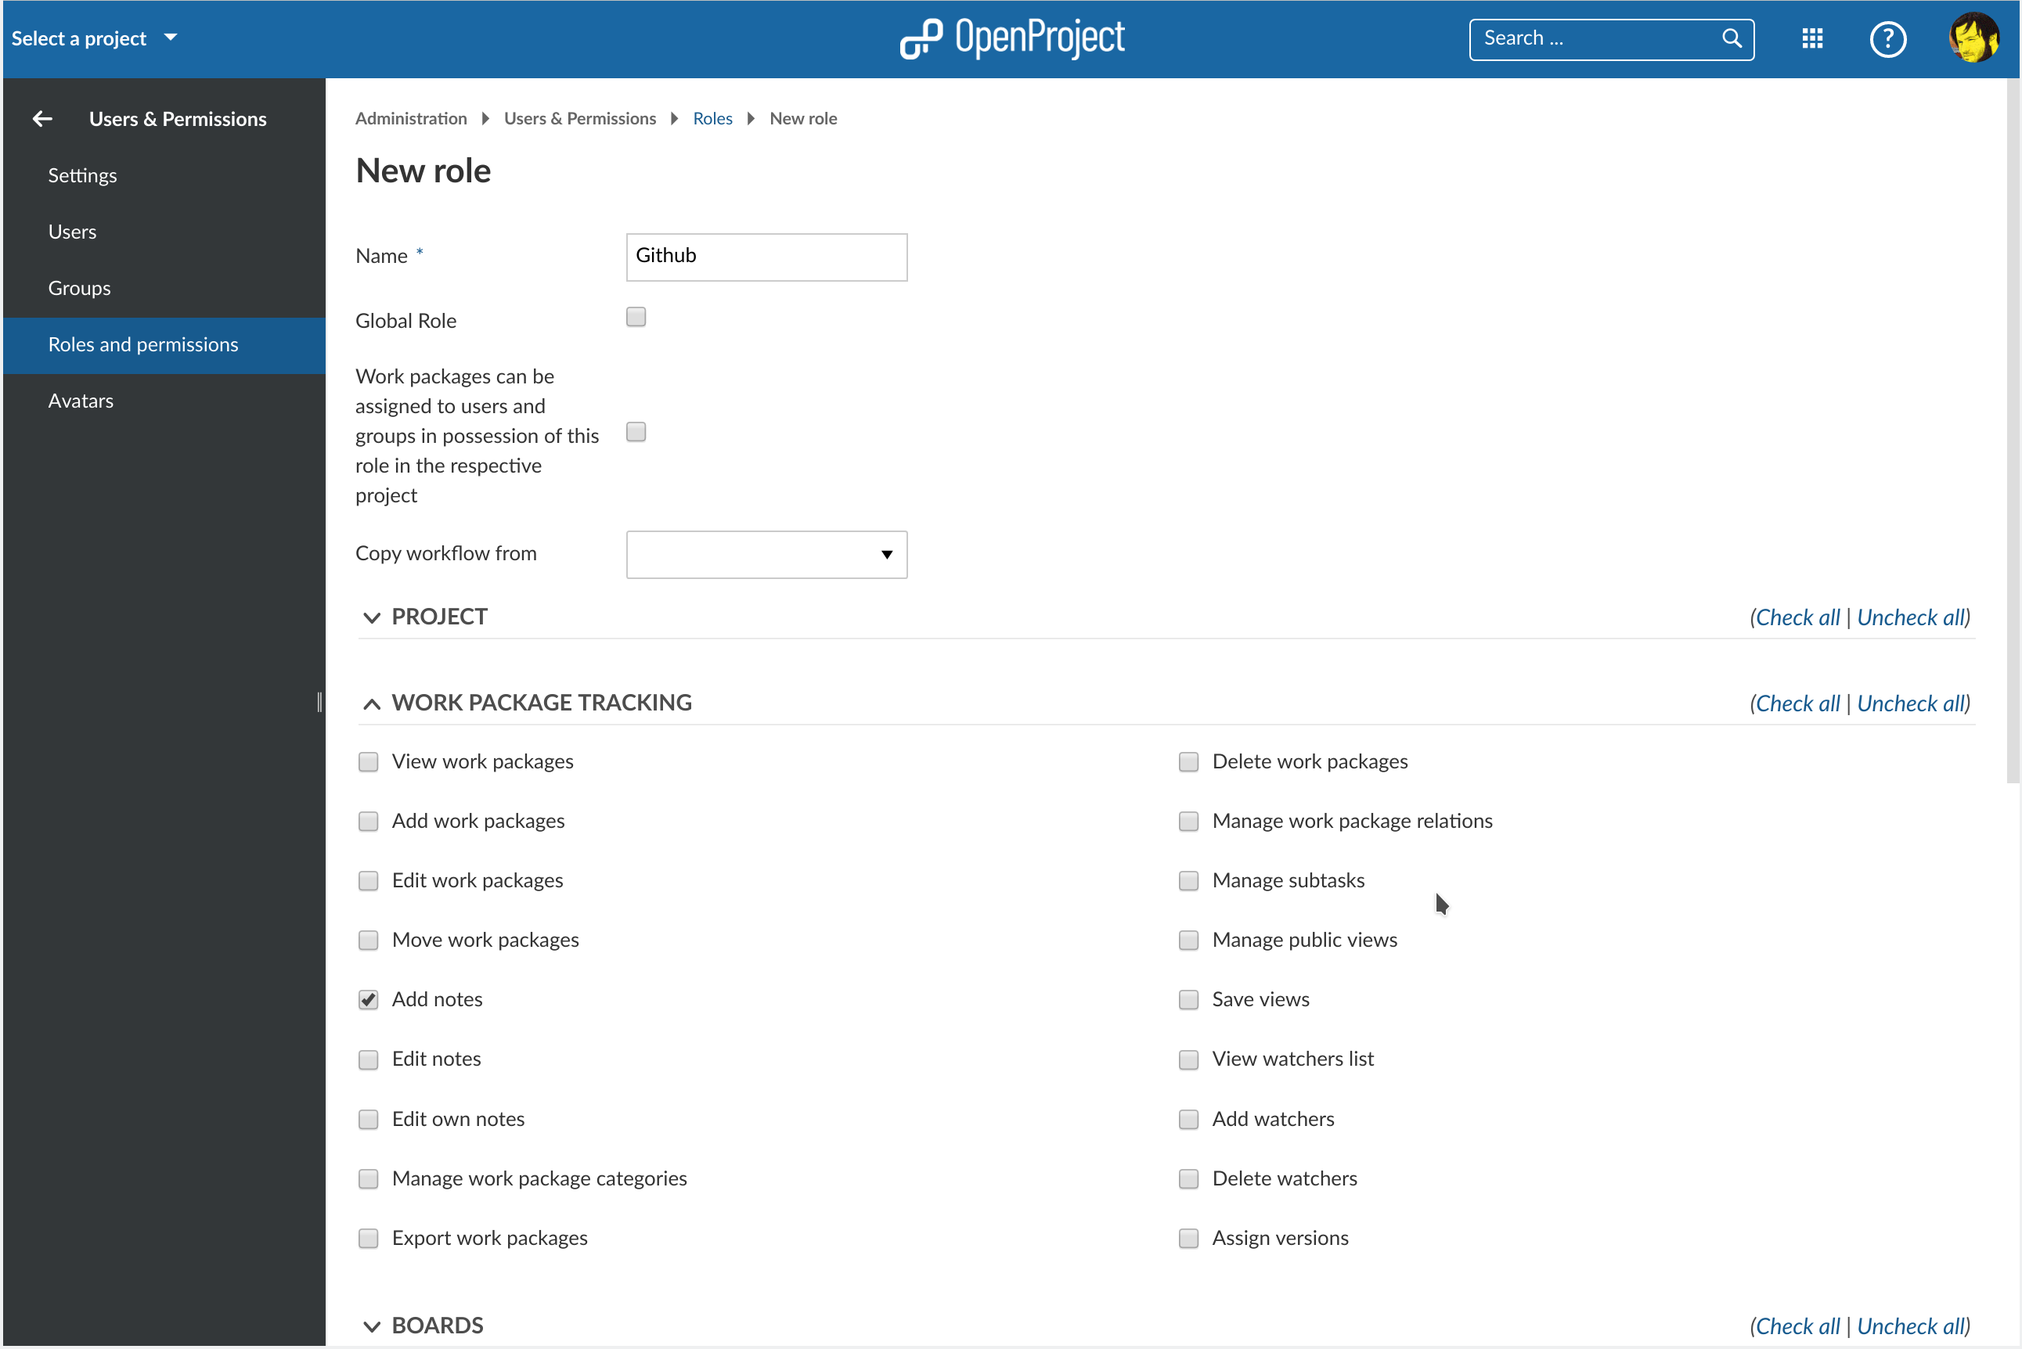
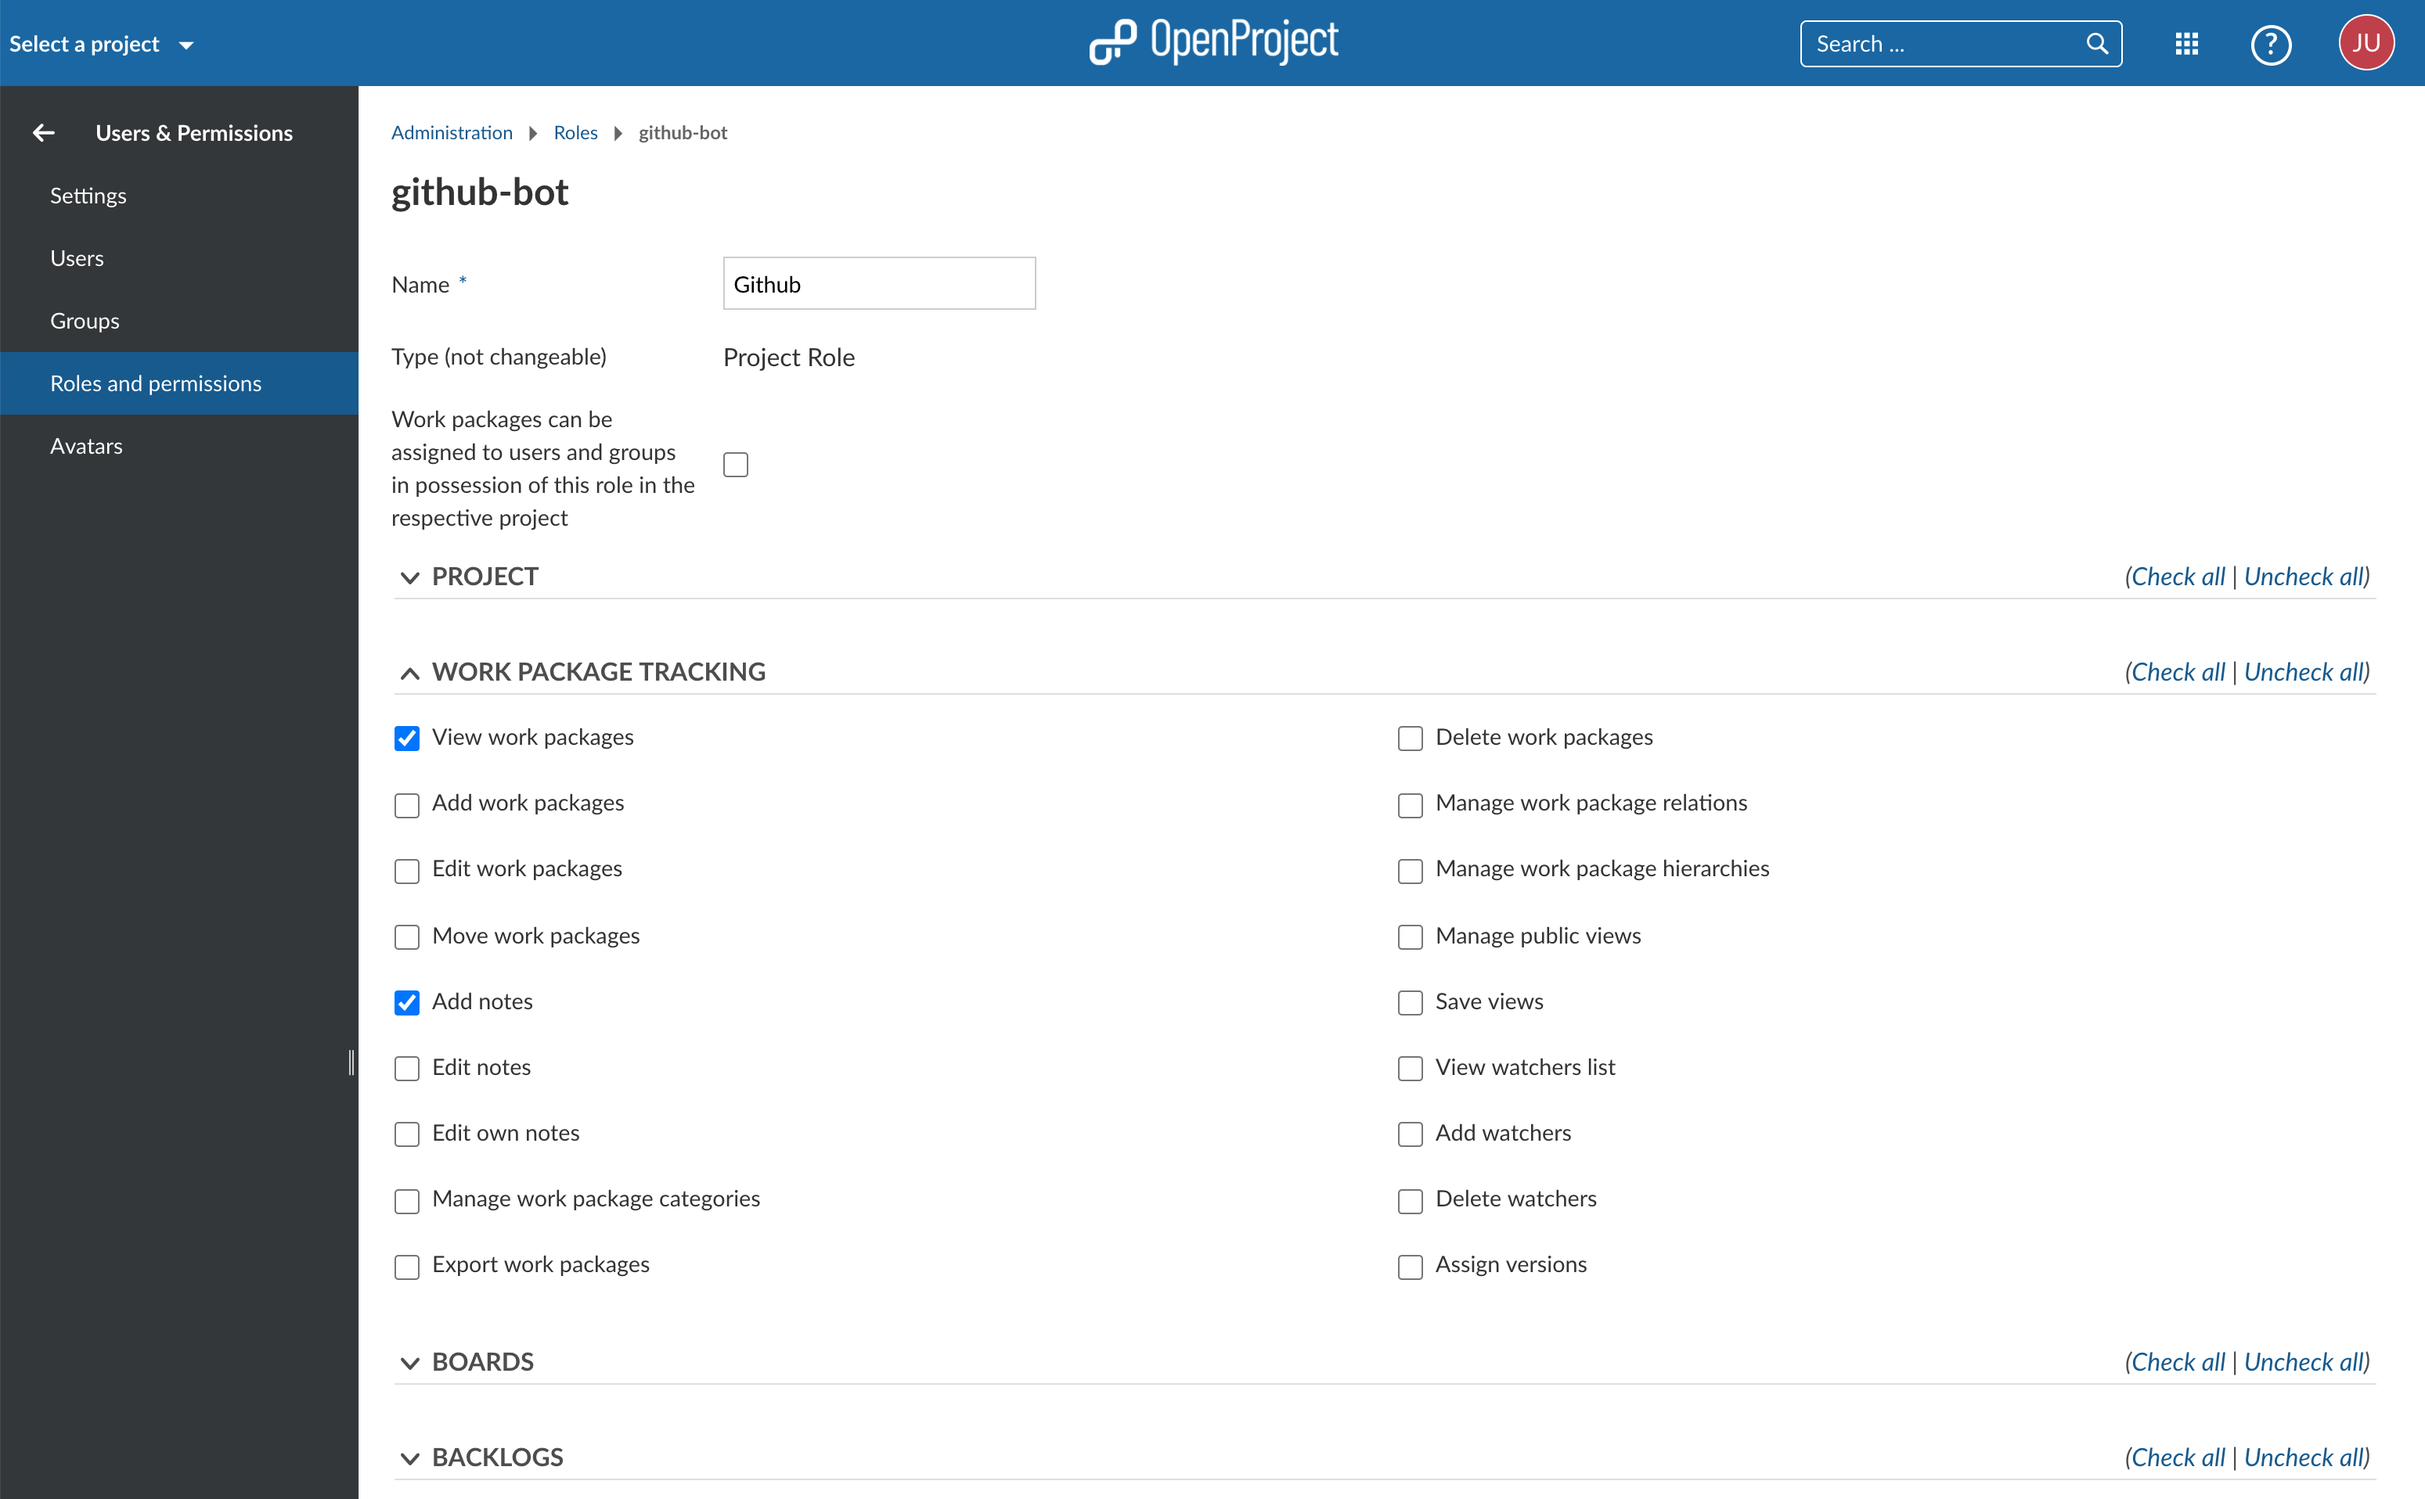
update permission requirements in docs

diff --git a/docs/system-admin-guide/github-integration/README.md b/docs/system-admin-guide/github-integration/README.md
@@ -40,6 +40,8 @@ First you will need to create a user in OpenProject that will make the comments.
 The user will have to be added to each project with a role that allows them
 to comment on work packages.
 
+The role needs two permissions and should only receive those two: "View work packages" and "Add notes" which you will find in the "Work package tracking" section.
+
 ![Github role with 'add notes' permission](github-role.png)
 
 ![Github user added as member to project with respective role](github-project-member.png)
